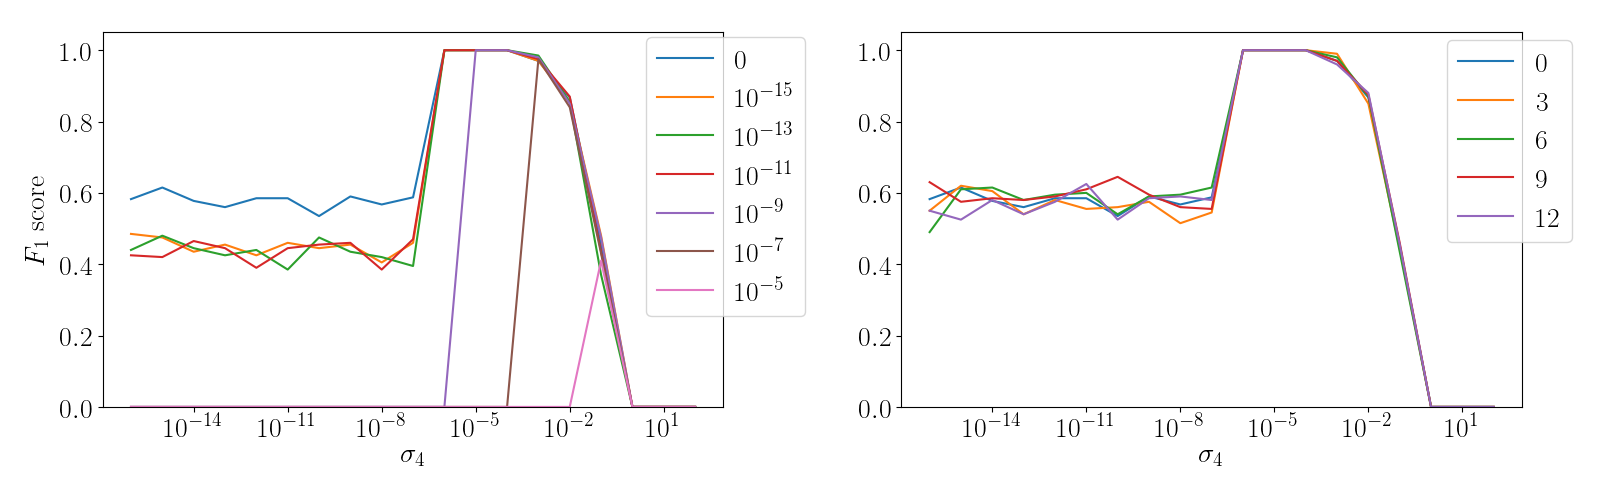
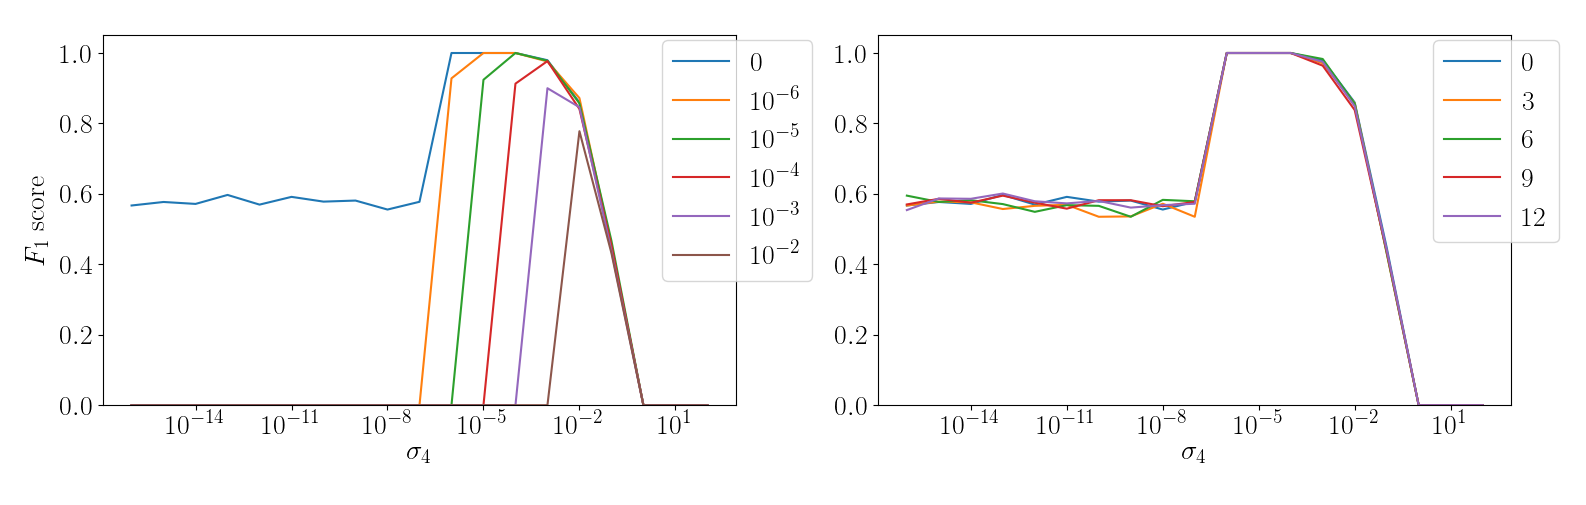
Current state of documentation. Added more to the sigma overlay analysis. Started a presentation of Wahba's problem.

diff --git a/doc/present-wahba.tex b/doc/present-wahba.tex
@@ -1,0 +1,283 @@
+\documentclass[11pt]{beamer}
+\usetheme{Malmoe}
+\usefonttheme[onlymath]{serif}
+
+\usepackage{graphicx} \usepackage{url} \usepackage{hyperref} \usepackage{caption} \usepackage{amsmath}
+\usepackage{amssymb} \usepackage{array} \usepackage{listings} \usepackage{color} \usepackage{textcomp}
+\usepackage[utf8]{inputenc} \usepackage{natbib} \usepackage{algorithm} \usepackage{tikz}
+\usepackage[noend]{algpseudocode} \usepackage{csquotes} \usepackage{mathtools}
+
+\usetikzlibrary{shapes.geometric, arrows}
+
+\setbeamertemplate{navigation symbols}{}
+\setbeamerfont{page number in head/foot}{size=\fontsize{9}{11}}
+\setbeamertemplate{footline}[frame number]
+\setbeamertemplate{section in toc}{\inserttocsectionnumber.~\inserttocsection}
+
+\author{Glenn Galvizo}
+\title{Overview of Solutions to Attitude Determination Problem}
+\institute{University of Hawaii at Manoa}
+
+\begin{document}
+    \begin{frame}
+        \titlepage
+    \end{frame}
+
+    \begin{frame}
+        \frametitle{Overview}
+        \tableofcontents
+    \end{frame}
+
+    \section{Background}\label{sec:background}
+    \subsection{Story of Procrustes}\label{subsec:storyOfProcrustes}
+    \begin{frame}
+        \frametitle{Greek Myth: Procrustes}
+        \centerline{\includegraphics[scale=1.3]{images/procrustes}}
+        % Start with a story.
+    \end{frame}
+
+    % Taking a step back. Going to talk about attitude determination.
+    \subsection{Spacecraft Attitude Relevancy}\label{subsec:spacecraftAttitudeRelevancy}
+    \begin{frame}
+        \frametitle{Relevancy: Spacecraft Attitude}
+        \begin{definition}
+            Attitude determination = process of finding one's \textit{orientation} in space
+        \end{definition} \medskip
+        \begin{columns}
+            \begin{column}{0.5\textwidth}
+                \begin{itemize}[<+->]
+                    \item Craft uses orientation to: \medskip
+                    \begin{enumerate}
+                        \item Orient solar panels
+                        \item Direct thrusters
+                        \item Position payload
+                    \end{enumerate} \medskip
+                    \item Uses input from: \medskip
+                    \begin{enumerate}
+                        \item Earth's magnetic field
+                        \item Visual position of Sun
+                        \item Visual position of stars
+                    \end{enumerate}
+                \end{itemize}
+            \end{column}
+            \begin{column}{0.5\textwidth}
+                \centering{\includegraphics[scale=0.35]{images/spacecraft-attitude}}
+            \end{column}
+        \end{columns}
+    \end{frame}
+
+    \begin{frame}
+        \frametitle{Attitude Determination}
+        \begin{columns}
+            \begin{column}{0.5\textwidth}
+                \begin{itemize}
+                    \item $R \gets$ inertial frame \bigskip
+                    \item $B \gets$ body frame \bigskip
+                    \item $r_i \gets$ known location in $R$ \bigskip
+                    \item $b_i \gets$ observation in $B$
+                \end{itemize} \bigskip
+            \end{column}
+            \begin{column}{0.55\textwidth}
+                \centering{\includegraphics[scale=0.2]{images/moving-coordinate-systems.PNG}}
+            \end{column}
+        \end{columns} \bigskip
+        \centering{\textit{Goal: Find rotation $A$ to take $R$ points to $B$}}
+    \end{frame}
+
+    \section{Rotation Representation}\label{sec:rotationRepresentation}
+    \begin{frame}
+        \begin{center}
+            \LARGE{This begs the question\ldots what is $A$?}
+        \end{center}
+    \end{frame}
+
+    \subsection{Rotation Matrices}\label{subsec:rotationMatrices}
+    \begin{frame}
+        \frametitle{Rotation Matrices}
+        \begin{itemize}
+            \item $A$ is a matrix relating $R$ to $B$ by: \pause
+            \begin{equation}
+                \begin{bmatrix}
+                    b_1 \\
+                    b_2 \\
+                    b_3
+                \end{bmatrix}
+                =
+                \begin{bmatrix}
+                    A_{11} & A_{12} & A_{13} \\
+                    A_{21} & A_{22} & A_{33} \\
+                    A_{31} & A_{32} & A_{33}
+                \end{bmatrix}
+                \begin{bmatrix}
+                    r_1 \\
+                    r_2 \\
+                    r_3
+                \end{bmatrix}
+                = A^{B/R}
+                \begin{bmatrix}
+                    r_1 \\
+                    r_2 \\
+                    r_3
+                \end{bmatrix}
+            \end{equation} \medskip \pause
+            \item $A$ can also be interpreted as matrix of cosine angles:
+            \begin{equation}
+                A^{B/R} =
+                \begin{bmatrix}
+                    b_1 \cdot r_1 & b_1 \cdot r_2 & b_1 \cdot r_3 \\
+                    b_2 \cdot r_1 & b_2 \cdot r_2 & b_2 \cdot r_3 \\
+                    b_3 \cdot r_1 & b_3 \cdot r_2 & b_3 \cdot r_3 \\
+                \end{bmatrix}
+                \equiv
+                \begin{bmatrix}
+                    b_1 \\
+                    b_2 \\
+                    b_3
+                \end{bmatrix}
+                \cdot
+                \begin{bmatrix}
+                    r_1 & r_2 & r_3
+                \end{bmatrix}
+            \end{equation}
+        \end{itemize}
+    \end{frame}
+
+    \begin{frame}
+        \frametitle{Accounting for Noise in Measurement}
+        \begin{itemize}[<+->]
+            \item We take known location $r_i$ to measurement $b_i$ by:
+            \begin{equation}
+                b_i = A r_i
+            \end{equation} \medskip
+            \item Sensor measurements aren't perfect (sadly), we add error: \medskip
+            \begin{align}
+                b_i &= A r_i + v_i \\
+                0 &= v_i^T A r_i
+            \end{align}
+        \end{itemize}
+    \end{frame}
+
+    \subsection{Quaternions}\label{subsec:quaternions}
+    \begin{frame}
+        \frametitle{Quaternions}
+        \begin{itemize}[<+->]
+            \item 3D Rotations can be represented as a 3x3 matrix, or a single 4D number \medskip
+            \item The relationship between a quaternion $q$ and a direction cosine matrix $A$:
+            \begin{equation}
+                A =
+                \begin{bmatrix}
+                    1 - 2(q_2^2 + q_3^2) & 2(q_1 q_2 + q_3 q_4) & 2(q_1 q_3 + q_2 q_4) \\
+                    2(q_2 q_1 + q_3 q_4) & 1-2(q_1^2+q_3^2) & 2(q_2 q_3 + q_1 q_4) \\
+                    2(q_3 q_1 + q_2 q_4) & 2(q_3 q_2 + q_1 q_4) & 1 - 2(q_1^2+q_2^2)
+                \end{bmatrix}
+            \end{equation}
+            \item Useful for low-power computing as only products are calculated
+        \end{itemize}
+    \end{frame}
+
+    \section{Wahba's Problem}\label{sec:wahbasProblem}
+    \begin{frame}
+        \frametitle{Wahba's Problem}
+        \begin{definition}
+            Wahba's Problem = Finding an \textit{optimal} rotation matrix $A$ to take frame $R$ to $B$, using set of
+            observations in both frames
+        \end{definition} \medskip
+
+        \begin{itemize}
+            \item<2> We seek to minimize the following function:
+            \begin{align}
+                L(A) &= \frac{1}{2} \sum_i v_i \left\|  b_i - Ar_i \right\|^2 \\
+                L(A) &= \lambda_0 - tr(AB^T)
+            \end{align}
+            where $\lambda_0 \equiv \sum_i v_i$ and $B \equiv \sum_i v_i b_i r_i^T$. \medskip
+            \item<2> \textit{$B$ here is distinct from the spacecraft body frame $B$}
+        \end{itemize}
+    \end{frame}
+
+    \begin{frame}
+        \frametitle{Wahba's Problem (continued)}
+        \begin{itemize}
+            \item \textbf{Goal: Minimize $L(A)$}
+            \begin{equation*}
+                L(A) = \lambda_0 - tr(AB^T)
+            \end{equation*}
+            where $\lambda_0 \equiv \sum_i v_i$ and $B \equiv \sum_i v_i b_i r_i^T$. \medskip
+            \item<2-> We cannot minimize $\lambda_0$, so we maximize $tr(AB^T)$\bigskip
+            \item<3> This can be rewritten as the \textit{orthogonal Procrustes problem} \bigskip
+            \item<3> Known approaches: SVD, TRIAD, QUEST \bigskip
+        \end{itemize}
+    \end{frame}
+
+    \section{Solutions to Wahba's Problem}\label{sec:wahbasProblemSolutions}
+    \subsection{SVD Method}\label{subsec:svdMethod}
+    \begin{frame}
+        \frametitle{SVD Method (Singular Value Decomposition)}
+        \begin{itemize}[<+->]
+            \item  = factorization of some matrix into three different matrices \medskip
+            \item $B$ can be factored into:
+            \begin{equation}
+                B = U \Sigma V^T = U diag \left[ \Sigma_{11} \ \Sigma_{22} \ \Sigma_{33} \right] V^T
+            \end{equation}
+            % sigma contains the square roots of eigenvalues from U and V in descending order
+            where $U$ and $V$ are orthogonal, and $\Sigma_{11} \geq \Sigma_{22} \geq \Sigma_{33} \geq 0$ \medskip
+            \item $\Sigma$ represents diagonal matrix containing square roots of eigenvalues from $U$ or $V$ in
+            descending order \medskip
+            \item The optimal rotation is defined as:
+            \begin{equation}
+                A_{opt} = U diag \left[ 1 \ 1 \ (det U)(det V) \right] V^T
+            \end{equation}
+        \end{itemize}
+    \end{frame}
+
+    \subsection{QUEST Method}\label{subsec:questMethod}
+    \begin{frame}
+        \frametitle{QUEST Method}
+        \begin{itemize}[<+->]
+            \item = \textit{QUaternion ESTimator} (QUEST) \medskip
+            \item The optimal rotation as a quaternion is represented as:
+            \begin{equation}
+                q_{opt} = \frac{1}{\sqrt{\gamma^2 + |x|^2}}
+                \begin{bmatrix}
+                    x \\
+                    \gamma
+                \end{bmatrix}
+            \end{equation}
+            where
+            \begin{align*}
+                x &\equiv \{ adj[(\lambda_{max} + trB) I - B - B^T] \} z, \\
+                \gamma &\equiv det[(\lambda_{max} + trB) I - B - B^T]
+            \end{align*}
+        \end{itemize}
+    \end{frame}
+
+    \begin{frame}
+        \frametitle{QUEST Method}
+        \begin{itemize}[<+->]
+            \item $\lambda_{max}$ is found
+            \item = \textit{QUaternion ESTimator} (QUEST) \medskip
+            \item The optimal rotation as a quaternion is represented as:
+            \begin{equation}
+                q_{opt} = \frac{1}{\sqrt{\gamma^2 + |x|^2}}
+                \begin{bmatrix}
+                    x \\
+                    \gamma
+                \end{bmatrix}
+            \end{equation}
+            where
+            \begin{align*}
+                x &\equiv \{ adj[(\lambda_{max} + trB) I - B - B^T] \} z, \\
+                \gamma &\equiv det[(\lambda_{max} + trB) I - B - B^T]
+            \end{align*}
+        \end{itemize}
+    \end{frame}
+
+    \subsection{TRIAD Method}\label{subsec:triadMethod}
+    \begin{frame}
+        \frametitle{TRIAD Method}
+
+    \end{frame}
+
+    \begin{frame}
+        \centering{\huge{Questions?}}
+    \end{frame}
+\end{document}

diff --git a/script/python/plot_base.py b/script/python/plot_base.py
@@ -58,29 +58,29 @@ def attach_plot_info(att):
         :return: None.
         """
         try:
-            h(f(None))
+            h(f())
         except KeyError:
             pass
 
     # Set Y limits.
-    attempt(lambda _: ax.set_ylim(params[sec][pre + '-yll']))
+    attempt(lambda : ax.set_ylim(params[sec][pre + '-yll']))
 
     # If desired, set the X axis as logarithmic.
-    attempt(lambda _: ax.set_xscale('log') if params[sec][pre + '-lxa'] == 1 else None)
+    attempt(lambda : ax.set_xscale('log') if params[sec][pre + '-lxa'] == 1 else None)
 
     # If desired, set the Y axis as logarithmic.
-    attempt(lambda _: ax.set_yscale('log') if params[sec][pre + '-lya'] == 1 else None)
+    attempt(lambda : ax.set_yscale('log') if params[sec][pre + '-lya'] == 1 else None)
 
     # Add the legend.
-    attempt(lambda _: plt.legend(params[sec]['ll'], fontsize=18)
+    attempt(lambda : plt.legend(params[sec]['ll'], fontsize=18)
     if not pre + '-nll' in params[sec] or params[sec][pre + '-nll'] == 0 else None,
             lambda a: a.draggable(True) if a is not None else None)
 
     # Add the chart X axis tick labels.
-    attempt(lambda _: plt.xticks(np.arange(len(params[sec][pre + '-xtl'])), params[sec][pre + '-xtl']))
+    attempt(lambda : plt.xticks(np.arange(len(params[sec][pre + '-xtl'])), params[sec][pre + '-xtl']))
 
     # Add the chart X and Y labels.
-    attempt(lambda _: plt.xlabel(params[sec][pre + '-xal']) and plt.ylabel(params[sec][pre + '-yal']))
+    attempt(lambda : plt.xlabel(params[sec][pre + '-xal']) and plt.ylabel(params[sec][pre + '-yal']))
 
 
 def d_plot(cur_j, att):

diff --git a/script/python/plot_experiment.py b/script/python/plot_experiment.py
@@ -38,14 +38,14 @@ def overlay_plots(cur_i):
 
     plt.figure()
     plt.subplot(121)  # Sigma4 vs. F1 w/ ShiftDeviation visualization.
-    for i in ['0.0', '1.0e-15', '1.0e-13', '1.0e-11', '1.0e-9', '1.0e-7', '1.0e-5']:
+    for i in ['0.0', '1.0e-6', '1.0e-5', '1.0e-4', '1.0e-3', '1.0e-2']:
         e_plot(cur_i, {'table_name': 'OVERLAY', 'x_attribute': 'Sigma4',
                        'y_attribute': '(2 * TruePositive) / (2 * TruePositive + FalsePositive + FalseNegative)',
                        # 'y_attribute': '(TruePositive + TrueNegative) / N ',
                        'constrain_that': 'ABS(ShiftDeviation - {}) < 1.0e-17 '.format(i) +
                                          'AND FalseStars = 0 ',
                        'params_section': 'overlay-plot', 'params_prefix': 's4as', 'plot_type': 'LINE'})
-    a = plt.legend(['0', r'$10^{-15}$', r'$10^{-13}$', r'$10^{-11}$', r'$10^{-9}$', r'$10^{-7}$', r'$10^{-5}$'])
+    a = plt.legend(['0', r'$10^{-6}$', r'$10^{-5}$', r'$10^{-4}$', r'$10^{-3}$', r'$10^{-2}$'])
     a.draggable(True)
 
     plt.subplot(122)  # Sigma4 vs. F1 w/ FalseStars visualization.

diff --git a/doc/paper.tex b/doc/paper.tex
@@ -22,5 +22,5 @@
 
     \nocite{*}
     \bibliographystyle{unsrt}
-    \bibliography{include/references}
+    \bibliography{include/paper/references}
 \end{document}
